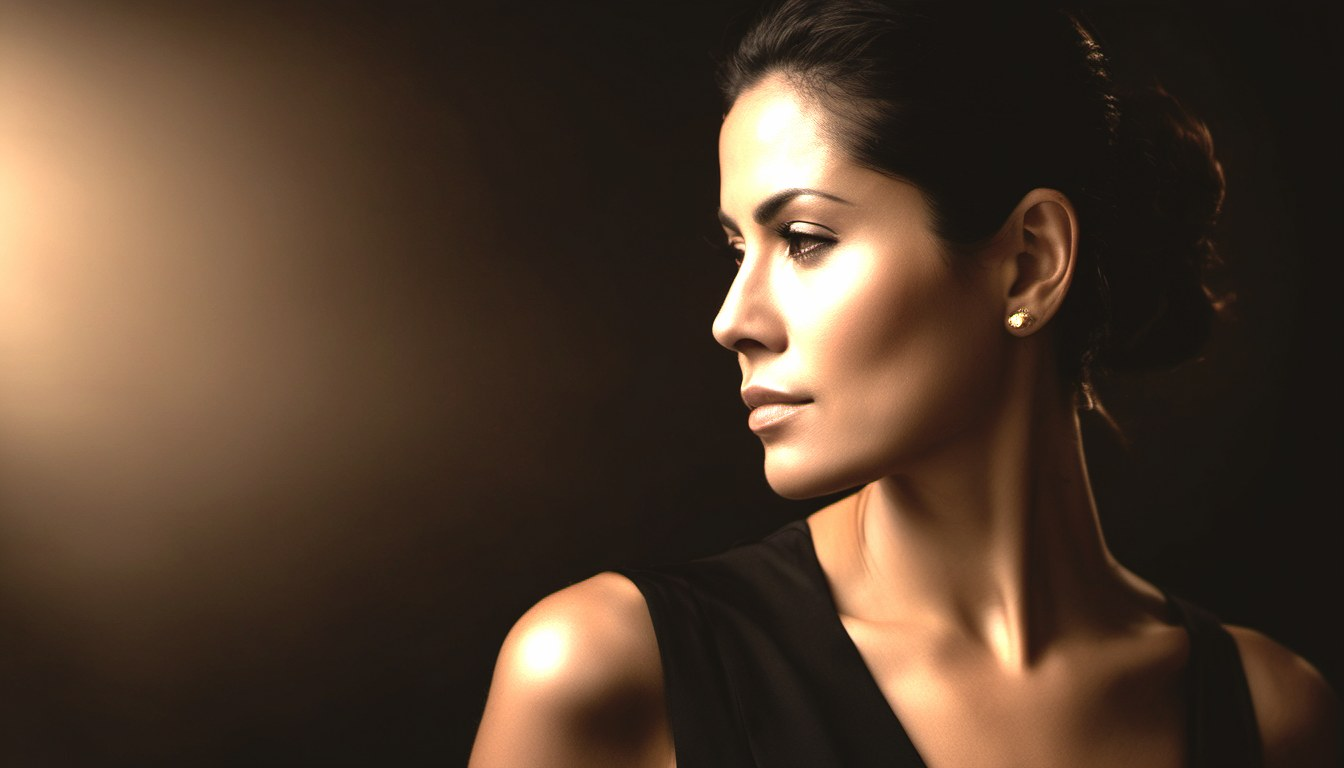
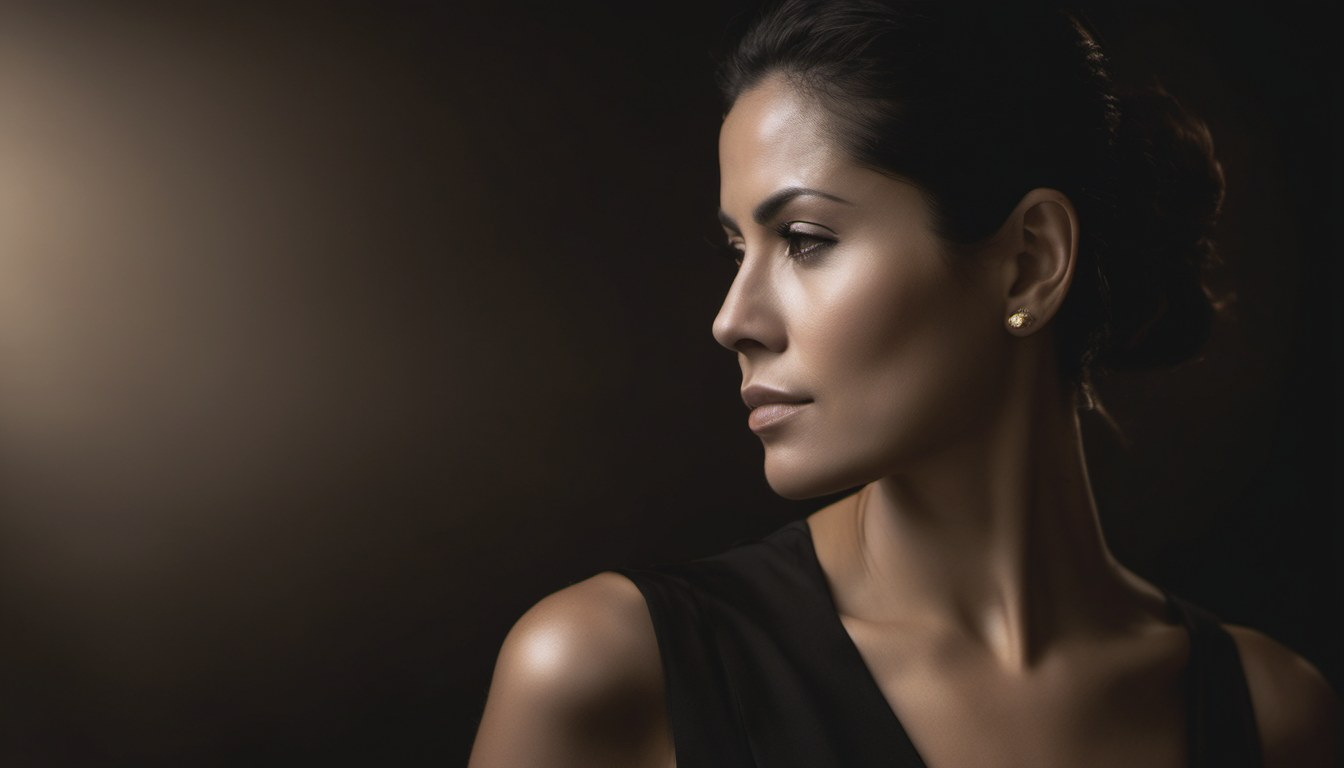
rediseno-v0.58 — Casos: fotos de v0.56 y estela en movimiento desaturada y mas suave

diff --git a/src/app/components/sections/CaseStudies.tsx b/src/app/components/sections/CaseStudies.tsx
@@ -71,7 +71,7 @@ function MotionPhoto({ src }: { src: string }) {
       <img src={src} alt="" className="absolute inset-0 h-full w-full object-cover motion-safe:animate-[photoZoom_18s_ease-in-out_infinite_alternate]" draggable={false} />
       {/* Estela: la misma foto desenfocada que se desliza en horizontal */}
       {/* eslint-disable-next-line @next/next/no-img-element */}
-      <img src={src} alt="" className="absolute inset-0 h-full w-full object-cover opacity-45 mix-blend-screen blur-[14px] motion-safe:animate-[photoTrail_7s_ease-in-out_infinite]" draggable={false} />
+      <img src={src} alt="" className="absolute inset-0 h-full w-full object-cover opacity-45 mix-blend-screen [filter:blur(14px)_saturate(0.15)] motion-safe:animate-[photoTrail_7s_ease-in-out_infinite]" draggable={false} />
     </div>
   );
 }

diff --git a/src/app/globals.css b/src/app/globals.css
@@ -221,8 +221,8 @@ body::before {
   to { transform: scale(1.12) translateX(-1.5%); }
 }
 @keyframes photoTrail {
-  0%, 100% { transform: translateX(-4%) scale(1.06); opacity: 0.25; }
-  50% { transform: translateX(5%) scale(1.06); opacity: 0.55; }
+  0%, 100% { transform: translateX(-4%) scale(1.06); opacity: 0.15; }
+  50% { transform: translateX(5%) scale(1.06); opacity: 0.35; }
 }
 @keyframes brandBars {
   0%, 100% { transform: scaleY(0.35); }
